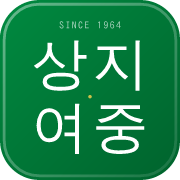
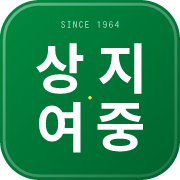
feat: add opentype.js and update app assets
Add opentype.js dependency for future signature 
generation and update school emblem assets.

diff --git a/src/components/SangjiEmblem.tsx b/src/components/SangjiEmblem.tsx
@@ -21,19 +21,17 @@ export const SangjiEmblem: React.FC<SangjiEmblemProps> = ({
       role="img"
     >
       <defs>
-        <linearGradient id="sangji-bg-grad-comp" x1="0%" y1="0%" x2="100%" y2="100%">
+        <linearGradient id="sangji-bg-grad-tsx" x1="0%" y1="0%" x2="100%" y2="100%">
           <stop offset="0%" stopColor="#008a40" />
           <stop offset="100%" stopColor="#00632d" />
         </linearGradient>
-        <linearGradient id="sangji-border-grad-comp" x1="0%" y1="0%" x2="100%" y2="100%">
+        <linearGradient id="sangji-border-grad-tsx" x1="0%" y1="0%" x2="100%" y2="100%">
           <stop offset="0%" stopColor="rgba(255,255,255,0.4)" />
           <stop offset="100%" stopColor="rgba(255,255,255,0.1)" />
         </linearGradient>
       </defs>
 
-      {/* Squircle App Icon Background */}
-      <rect width="512" height="512" rx="112" ry="112" fill="url(#sangji-bg-grad-comp)" />
-      {/* Inner Highlight Border */}
+      <rect width="512" height="512" rx="112" ry="112" fill="url(#sangji-bg-grad-tsx)" />
       <rect
         x="12"
         y="12"
@@ -42,42 +40,31 @@ export const SangjiEmblem: React.FC<SangjiEmblemProps> = ({
         rx="100"
         ry="100"
         fill="none"
-        stroke="url(#sangji-border-grad-comp)"
+        stroke="url(#sangji-border-grad-tsx)"
         strokeWidth="8"
       />
 
-      {/* School Emblem Year Tag */}
       <text
         x="256"
-        y="82"
-        fill="rgba(255,255,255,0.65)"
-        fontSize="28"
-        fontWeight="700"
-        fontFamily="'Pretendard', 'Noto Sans KR', sans-serif"
+        y="80"
+        fill="rgba(255,255,255,0.75)"
+        fontSize="26"
+        fontWeight="bold"
+        fontFamily="sans-serif"
         textAnchor="middle"
         letterSpacing="4"
       >
         SINCE 1964
       </text>
 
-      {/* Korean Text: 상지 / 여중 (2x2 Grid) */}
-      <g
-        fill="#ffffff"
-        fontFamily="'Pretendard', 'Noto Sans KR', 'Apple SD Gothic Neo', sans-serif"
-        fontWeight="900"
-        fontSize="160"
-        textAnchor="middle"
-      >
-        {/* Row 1: 상 지 */}
-        <text x="170" y="235">상</text>
-        <text x="342" y="235">지</text>
-        {/* Row 2: 여 중 */}
-        <text x="170" y="415">여</text>
-        <text x="342" y="415">중</text>
-      </g>
+      <circle cx="256" cy="278" r="5" fill="#fcd34d" />
 
-      {/* Center subtle decorative accent */}
-      <circle cx="256" cy="275" r="5" fill="#fcd34d" opacity="0.8" />
+      <g fill="#ffffff">
+        <path d="M136.68 143.69L136.68 130.83L153.57 130.83L153.57 143.69Q153.57 157.80 149.31 170.43Q145.05 183.06 136.21 192.52Q127.38 201.97 113.73 206.63L102.89 190.50Q114.98 186.32 122.42 179.11Q129.86 171.91 133.26 162.61Q136.68 153.31 136.68 143.69M140.86 145.56L140.86 130.83L157.44 130.83L157.44 145.56Q157.44 152.06 159.38 158.26Q161.32 164.47 165.19 169.89Q169.07 175.31 175.12 179.58Q181.16 183.84 189.69 186.47L178.99 202.59Q165.97 198.25 157.52 189.73Q149.07 181.20 144.97 169.89Q140.86 158.57 140.86 145.56M197.44 208.02L197.44 123.24L218.05 123.24L218.05 208.02L197.44 208.02M212.47 173.45L212.47 156.41L237.12 156.41L237.12 173.45L212.47 173.45M171.24 211.28Q186.28 211.28 197.13 214.61Q207.98 217.94 213.87 224.06Q219.75 230.19 219.75 239.02Q219.75 247.70 213.87 253.90Q207.98 260.10 197.13 263.43Q186.28 266.76 171.24 266.76Q156.36 266.76 145.43 263.43Q134.50 260.10 128.54 253.90Q122.57 247.70 122.57 239.02Q122.57 230.19 128.54 224.06Q134.50 217.94 145.43 214.61Q156.36 211.28 171.24 211.28M171.24 227.24Q162.09 227.24 155.90 228.56Q149.69 229.88 146.44 232.43Q143.19 234.99 143.19 239.02Q143.19 242.90 146.44 245.53Q149.69 248.16 155.90 249.48Q162.09 250.80 171.24 250.80Q180.38 250.80 186.66 249.48Q192.94 248.16 196.12 245.53Q199.30 242.90 199.30 239.02Q199.30 234.99 196.12 232.43Q192.94 229.88 186.66 228.56Q180.38 227.24 171.24 227.24" />
+        <path d="M317.67 161.99L317.67 145.87L334.10 145.87L334.10 161.99Q334.10 174.38 331.54 186.32Q328.98 198.25 323.94 208.72Q318.90 219.18 311.31 227.16Q303.72 235.15 293.64 239.79L281.86 223.52Q290.85 219.34 297.59 212.67Q304.33 206 308.75 197.71Q313.17 189.42 315.42 180.20Q317.67 170.97 317.67 161.99M322.16 161.99L322.16 145.87L338.44 145.87L338.44 161.99Q338.44 170.51 340.68 179.27Q342.93 188.03 347.27 195.85Q351.61 203.68 358.27 209.88Q364.94 216.08 374.09 219.80L362.77 236.23Q352.54 231.74 344.94 224.14Q337.35 216.55 332.24 206.63Q327.12 196.70 324.64 185.31Q322.16 173.92 322.16 161.99M287.60 153.93L287.60 136.88L368.19 136.88L368.19 153.93L287.60 153.93M381.52 266.76L381.52 123.24L402.14 123.24L402.14 266.76" />
+        <path d="M172.87 336.04L172.87 319.45L211.93 319.45L211.93 336.04L172.87 336.04M172.87 380.68L172.87 364.09L211.93 364.09L211.93 380.68L172.87 380.68M147.91 300.08Q158.61 300.08 167.06 306.36Q175.50 312.63 180.23 324.18Q184.96 335.73 184.96 351.38Q184.96 367.19 180.23 378.74Q175.50 390.29 167.06 396.56Q158.61 402.84 147.91 402.84Q137.22 402.84 128.85 396.56Q120.48 390.29 115.67 378.74Q110.87 367.19 110.87 351.38Q110.87 335.73 115.67 324.18Q120.48 312.63 128.85 306.36Q137.22 300.08 147.91 300.08M147.91 318.83Q142.80 318.83 138.84 322.55Q134.89 326.27 132.65 333.48Q130.40 340.69 130.40 351.38Q130.40 361.92 132.65 369.29Q134.89 376.65 138.84 380.37Q142.80 384.09 147.91 384.09Q153.34 384.09 157.21 380.37Q161.09 376.65 163.26 369.29Q165.43 361.92 165.43 351.38Q165.43 340.69 163.26 333.48Q161.09 326.27 157.21 322.55Q153.34 318.83 147.91 318.83M208.52 434L208.52 290L229.13 290L229.13 434" />
+        <path d="M331.77 384.63L331.77 359.37L352.23 359.37L352.23 384.63L331.77 384.63M277.06 368.82L277.06 352.39L406.95 352.39L406.95 368.82L277.06 368.82M341.69 378.89Q364.94 378.89 378.27 385.64Q391.60 392.38 391.60 404.94Q391.60 417.18 378.27 424Q364.94 430.82 341.69 430.82Q318.44 430.82 305.19 424Q291.94 417.18 291.94 404.94Q291.94 392.38 305.19 385.64Q318.44 378.89 341.69 378.89M341.69 394.55Q332.08 394.55 325.65 395.63Q319.22 396.72 315.96 398.97Q312.71 401.21 312.71 404.94Q312.71 408.34 315.96 410.67Q319.22 413 325.65 414.08Q332.08 415.16 341.69 415.16Q351.30 415.16 357.73 414.08Q364.17 413 367.42 410.67Q370.68 408.34 370.68 404.94Q370.68 401.21 367.42 398.97Q364.17 396.72 357.73 395.63Q351.30 394.55 341.69 394.55M327.90 304.18L327.90 300.77L346.19 300.77L346.19 304.18Q346.19 310.69 343.86 316.58Q341.54 322.47 336.96 327.51Q332.39 332.55 325.57 336.58Q318.75 340.61 309.76 343.25Q300.77 345.88 289.77 346.96L282.63 330.69Q292.09 329.91 299.45 328.05Q306.81 326.19 312.16 323.48Q317.51 320.77 321 317.59Q324.49 314.41 326.19 311Q327.90 307.59 327.90 304.18M337.97 304.18L337.97 300.77L356.11 300.77L356.11 304.18Q356.11 307.59 357.81 311.08Q359.51 314.57 363 317.67Q366.49 320.77 371.84 323.48Q377.19 326.19 384.55 328.05Q391.91 329.91 401.37 330.69L394.24 346.96Q383.23 345.88 374.24 343.25Q365.25 340.61 358.51 336.66Q351.76 332.70 347.19 327.67Q342.62 322.63 340.30 316.66Q337.97 310.69 337.97 304.18M288.99 309.45L288.99 293.18L395.32 293.18L395.32 309.45" />
+      </g>
     </svg>
   );
 };

diff --git a/index.html b/index.html
@@ -4,23 +4,23 @@
     <meta charset="UTF-8" />
     <meta name="viewport" content="width=device-width, initial-scale=1.0" />
     <title>상지여자중학교 연수 등록부</title>
-    <!-- App & Favicon Icons (상지여자중학교 공식 마크/휘장) -->
-    <link rel="icon" type="image/svg+xml" href="/sangji-emblem.svg" />
-    <link rel="icon" type="image/png" sizes="32x32" href="/favicon-32x32.png" />
-    <link rel="icon" type="image/png" sizes="192x192" href="/sangji-emblem-192.png" />
-    <link rel="apple-touch-icon" sizes="180x180" href="/apple-touch-icon.png" />
-    <link rel="shortcut icon" href="/favicon.ico" />
-    <link rel="manifest" href="/manifest.json" />
+    <!-- App & Favicon Icons (상지여중 한글 공식 앱 아이콘) -->
+    <link rel="icon" type="image/svg+xml" href="/sangji-app-icon.svg?v=3" />
+    <link rel="icon" type="image/png" sizes="32x32" href="/favicon-32x32.png?v=3" />
+    <link rel="icon" type="image/png" sizes="192x192" href="/sangji-app-icon-192.png?v=3" />
+    <link rel="apple-touch-icon" sizes="180x180" href="/apple-touch-icon.png?v=3" />
+    <link rel="shortcut icon" href="/favicon.ico?v=3" />
+    <link rel="manifest" href="/manifest.json?v=3" />
     <meta name="theme-color" content="#00873e" />
     <meta name="description" content="상지여자중학교 연수 등록부 생성기 - 교사·교직원·학부모·교직원(강사포함)·협의회 등록부, 실시간 클라우드 DB 자동 저장 및 공유 연동, A4 출력 최적화" />
     <meta property="og:title" content="상지여자중학교 연수 등록부" />
     <meta property="og:description" content="상지여자중학교 연수 등록부 생성기 - 교사·교직원·학부모·교직원(강사포함)·협의회 등록부, 실시간 클라우드 DB 자동 저장 및 공유 연동, A4 출력 최적화" />
-    <meta property="og:image" content="/sangji-emblem-512.png" />
+    <meta property="og:image" content="/sangji-app-icon-512.png?v=3" />
     <meta property="og:type" content="website" />
     <meta name="twitter:card" content="summary" />
     <meta name="twitter:title" content="상지여자중학교 연수 등록부" />
     <meta name="twitter:description" content="상지여자중학교 연수 등록부 생성기" />
-    <meta name="twitter:image" content="/sangji-emblem-512.png" />
+    <meta name="twitter:image" content="/sangji-app-icon-512.png?v=3" />
     <link rel="preconnect" href="https://fonts.googleapis.com">
     <link rel="preconnect" href="https://fonts.gstatic.com" crossorigin>
     <link href="https://fonts.googleapis.com/css2?family=Noto+Sans+KR:wght@300;400;500;600;700&family=Noto+Serif+KR:wght@500;600;700&family=Pretendard:wght@400;500;600;700&display=swap" rel="stylesheet">
